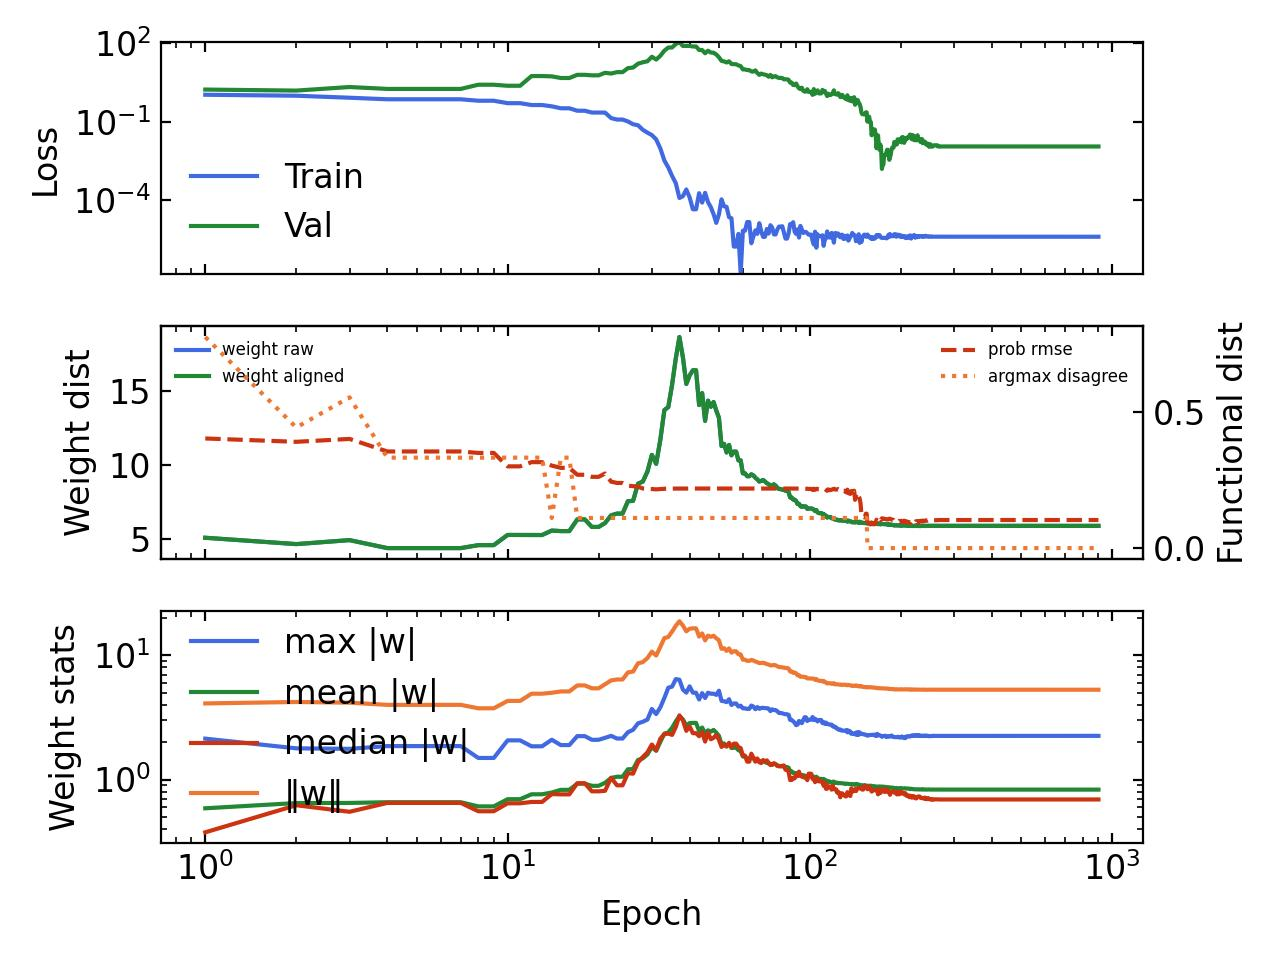
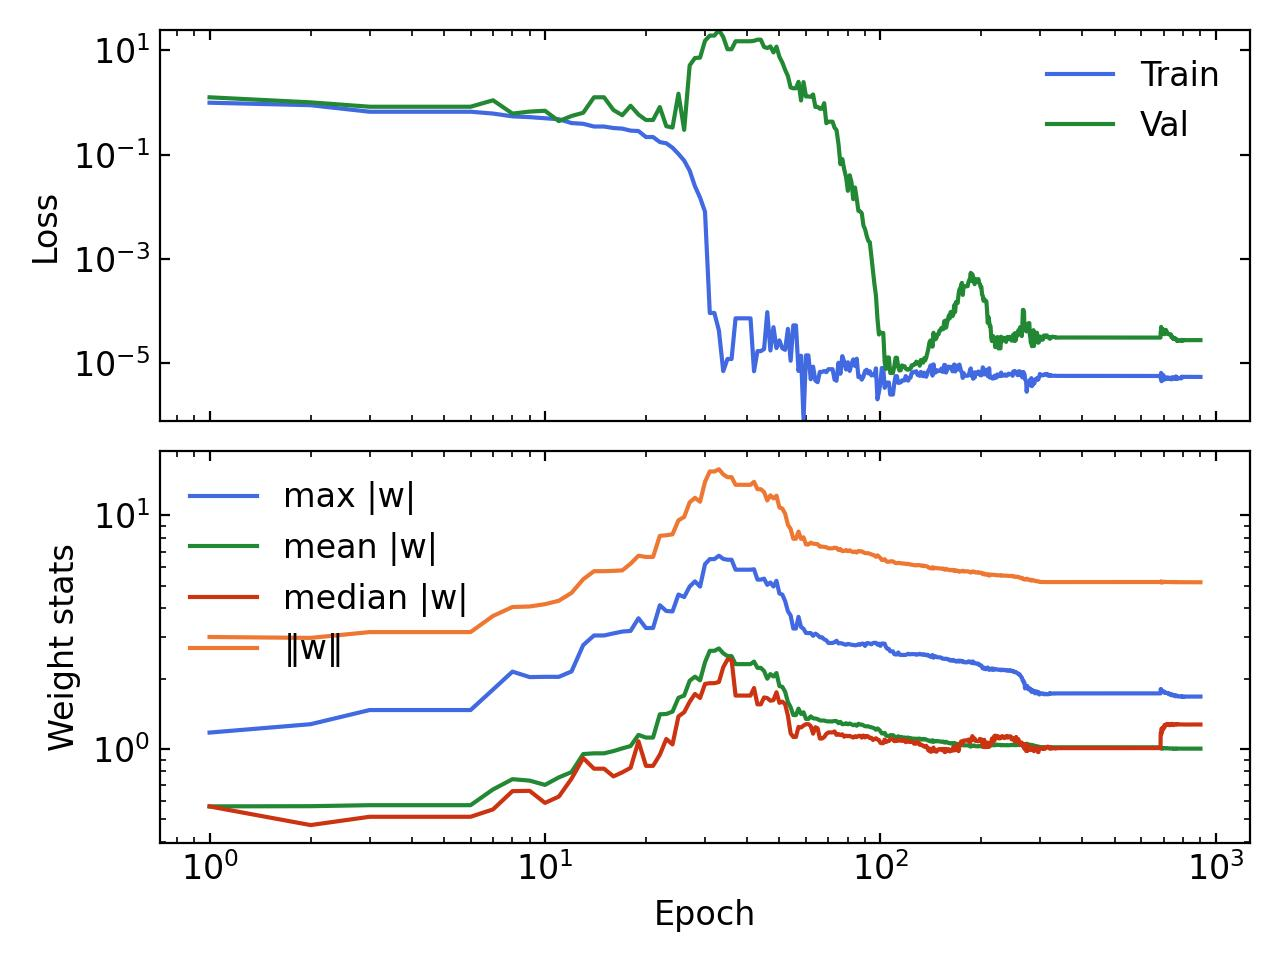
grokking window ELA tracking

diff --git a/plot.py b/plot.py
@@ -216,6 +216,153 @@ def plot_metrics(log_dir):
     print(f"Saved {savefile}\n")
 
 
+def _band_first(epochs, series, band):
+    """First generation where `series` enters the bottom `band` fraction of its
+    range, or None. Used to locate when a loss bottoms out."""
+    finite = np.isfinite(series)
+    if not finite.any():
+        return None
+    ep, v = epochs[finite], series[finite]
+    lo, hi = float(np.min(v)), float(np.max(v))
+    if hi - lo <= 0:
+        return None
+    hit = np.where(v <= lo + band * (hi - lo))[0]
+    return int(ep[hit[0]]) if hit.size else None
+
+
+def _grokking_span(m, band=0.1):
+    """(start, end) generations bracketing grokking, or (None, None).
+
+    Grokking shows up in the loss, not accuracy: train_loss drops early
+    (memorization) while val_loss stays high, then val_loss descends much later
+    (generalization). Accuracy is too coarse to see this on small val sets (e.g.
+    P=3 has only 4 val points). So:
+
+      start = train_loss bottoms out  (memorization complete)
+      end   = val_loss settles into the bottom `band` of its range and stays there
+              (generalization complete)
+
+    The span between them is the grokking gap. Returns (None, None) if val_loss
+    never settles low (no grokking) or the losses aren't logged."""
+    if m is None or "val_loss" not in m:
+        return None, None
+    epochs, vl = m["epoch"], m["val_loss"]
+    finite = np.isfinite(vl)
+    if not finite.any():
+        return None, None
+    ep, v = epochs[finite], vl[finite]
+    lo, hi = float(np.min(v)), float(np.max(v))
+    if hi - lo <= 0:
+        return None, None  # flat val_loss — nothing to mark
+    above = np.where(v > lo + band * (hi - lo))[0]
+    if not above.size:
+        return None, None  # always low — generalized from the start, no grokking
+    i = above[-1] + 1  # first generation after the last excursion above the band
+    if i >= len(ep):
+        return None, None  # ended high → never grokked
+    end = int(ep[i])
+
+    # start = memorization point (train_loss bottoms out); fall back to the
+    # val_loss peak — the onset of its descent — if train_loss is unavailable or
+    # bottoms after val has already generalized.
+    start = _band_first(epochs, m["train_loss"], band) if "train_loss" in m else None
+    if start is None or start >= end:
+        start = int(ep[int(np.argmax(v))])
+    return min(start, end), end
+
+
+def plot_ela_window(log_dir):
+    """Plot how each ELA feature evolves over generations.
+
+    Reads the side-channel `ela_window.jsonl` written when training with
+    `--ela-window`; one small panel per feature. The first panel shows train/val
+    loss as a grokking reference, and the grokking span (memorization → general-
+    ization) is shaded on every panel so feature dynamics can be compared against
+    when grokking happens. Silently skips runs without the side-channel file.
+    """
+    path = os.path.join(log_dir, "ela_window.jsonl")
+    if not os.path.exists(path):
+        return
+    with open(path) as f:
+        rows = [json.loads(line) for line in f if line.strip()]
+    if not rows:
+        return
+    print(f"Loading {path}...")
+
+    epochs = np.array([r["epoch"] for r in rows])
+    feats = sorted(set().union(*(r.keys() for r in rows)) - {"epoch"})
+    if not feats:
+        return
+
+    # Grokking reference from the per-generation metrics stream.
+    metrics = _get_metrics(log_dir)
+    gstart, gend = _grokking_span(metrics)
+
+    def mark_span(ax):
+        if gstart is not None and gend is not None:
+            ax.axvspan(gstart, gend, color="C3", alpha=0.12, lw=0)
+            ax.axvline(gstart, color="C3", ls="--", lw=0.7, alpha=0.7)
+            ax.axvline(gend, color="C3", ls="--", lw=0.7, alpha=0.7)
+
+    ncol = 4
+    npanel = len(feats) + 1  # +1 for the grokking reference panel
+    nrow = int(np.ceil(npanel / ncol))
+    fig, axes = plt.subplots(
+        nrow, ncol, figsize=(3.2 * ncol, 2.4 * nrow), dpi=150, squeeze=False
+    )
+    axes = axes.reshape(-1)
+
+    # Panel 0: grokking reference (train/val loss, log scale — grokking is the
+    # late descent of val_loss after train_loss has already bottomed out, which
+    # accuracy is too coarse to show on small val sets).
+    gax = axes[0]
+    if metrics is not None and "val_loss" in metrics and np.any(
+        np.isfinite(metrics["val_loss"])
+    ):
+        me = metrics["epoch"]
+        if "train_loss" in metrics:
+            gax.plot(me, metrics["train_loss"], lw=1, label="train")
+        gax.plot(me, metrics["val_loss"], lw=1, label="val")
+        gax.set_ylabel("Loss", fontsize=6)
+        gax.set_yscale("log")
+        gax.legend(fontsize=5, loc="upper right")
+        title = (
+            f"Grokking gens {gstart}–{gend}"
+            if gstart is not None
+            else "Grokking (none)"
+        )
+    else:
+        gax.text(0.5, 0.5, "no loss metrics", ha="center", va="center", fontsize=6)
+        title = "Grokking (n/a)"
+    gax.set_title(title, fontsize=6)
+    gax.set_xlabel("Generation", fontsize=6)
+    gax.set_xscale("log")  # grokking is read on a log generation axis
+    gax.tick_params(labelsize=5)
+    mark_span(gax)
+
+    for ax, feat in zip(axes[1:], feats):
+        y = np.array([r.get(feat, float("nan")) for r in rows], dtype=float)
+        finite = np.isfinite(y)
+        if finite.any():
+            ax.plot(epochs[finite], y[finite], lw=1)
+        mark_span(ax)
+        ax.set_title(feat, fontsize=6)
+        ax.set_xlabel("Generation", fontsize=6)
+        ax.set_xscale("log")  # match the grokking panel so the span aligns
+        ax.tick_params(labelsize=5)
+
+    for ax in axes[npanel:]:
+        ax.axis("off")
+
+    name = os.path.basename(log_dir)
+    fig.suptitle(f"ELA features over training  ({name})", fontsize=11)
+    fig.tight_layout(rect=(0, 0, 1, 0.97))
+    savefile = image_path(f"ela_window_{name}.jpg")
+    fig.savefig(savefile)
+    plt.close(fig)
+    print(f"Saved {savefile}\n")
+
+
 if __name__ == "__main__":
     logs = os.listdir("log")
     if not os.path.exists("log") or len(logs) == 0:
@@ -229,3 +376,4 @@ if __name__ == "__main__":
 
             animate_embedddings(log_dir)
         plot_metrics(log_dir)
+        plot_ela_window(log_dir)

diff --git a/algorithms/_common.py b/algorithms/_common.py
@@ -25,6 +25,35 @@ def get_trajectory():
     return X, y
 
 
+# Optional per-generation ELA over a moving window of recently evaluated points.
+# None = disabled; otherwise dict(n_last_points, seed, every).
+_ELA_WINDOW = None
+
+
+def enable_ela_window(n_last_points, seed=2, every=1):
+    """Compute ELA features every `every` generations over a moving window of
+    the last `n_last_points` evaluated points, tracking how each feature evolves
+    during the search. Implies trajectory recording (the window reads from it)."""
+    global _ELA_WINDOW
+    enable_trajectory()
+    _ELA_WINDOW = dict(n_last_points=int(n_last_points), seed=int(seed), every=int(every))
+
+
+def _ela_window_features():
+    """ELA features over the last `n_last_points` evaluated points, or {} if the
+    window is too small / the feature is disabled."""
+    if _ELA_WINDOW is None or not _TRAJECTORY:
+        return {}
+    window = _TRAJECTORY[-_ELA_WINDOW["n_last_points"] :]
+    if len(window) < 4:  # need a handful of points for any feature to be meaningful
+        return {}
+    X = np.array([t[0] for t in window])
+    y = np.array([t[1] for t in window])
+    from algorithms import ela  # local import avoids a circular import at load time
+
+    return ela.window_features(X, y, seed=_ELA_WINDOW["seed"])
+
+
 def get_params(model):
     return np.concatenate([p.detach().numpy().ravel() for p in model.parameters()])
 
@@ -107,6 +136,10 @@ def make_fitness(
                     **dist,
                     **weight_stats(model),
                 )
+                if _ELA_WINDOW is not None and gen % _ELA_WINDOW["every"] == 0:
+                    ela_feats = _ela_window_features()
+                    if ela_feats:
+                        logger.log_to("ela_window.jsonl", epoch=gen, **ela_feats)
 
         return loss
 

diff --git a/train.py b/train.py
@@ -88,6 +88,23 @@ def parse_args():
         "Requires a population-based --algo (cmaes / cpso / de / g3pcx).",
     )
     parser.add_argument(
+        "--ela-window",
+        type=int,
+        default=None,
+        metavar="N",
+        help="During training, compute ELA features every generation over a "
+        "moving window of the last N evaluated points, logging how each feature "
+        "evolves. Requires --log and a population-based --algo (cmaes / cpso / "
+        "de / g3pcx). Plot with plot.py.",
+    )
+    parser.add_argument(
+        "--ela-window-every",
+        type=int,
+        default=1,
+        metavar="K",
+        help="Compute the moving-window ELA every K generations (default: 1).",
+    )
+    parser.add_argument(
         "--track-optimum",
         type=str,
         default=None,
@@ -365,6 +382,21 @@ if __name__ == "__main__":
 
     if args.ela_trajectory:
         common_alg.enable_trajectory()
+
+    if args.ela_window:
+        if logger is None:
+            print(
+                "\n--ela-window needs --log to record the feature series; "
+                "enabling logging."
+            )
+            logger = Logger(run_name)
+        common_alg.enable_ela_window(
+            args.ela_window, seed=args.seed, every=args.ela_window_every
+        )
+        print(
+            f"Tracking ELA features every {args.ela_window_every} generation(s) "
+            f"over a moving window of {args.ela_window} points."
+        )
 
     print("Train Loss, Acc | Val Loss, Acc")
 

diff --git a/log.py b/log.py
@@ -5,11 +5,12 @@ import os
 
 class Logger:
     def __init__(self, name):
-        root = os.path.join("log", name)
-        os.makedirs(root, exist_ok=True)
+        self.root = os.path.join("log", name)
+        os.makedirs(self.root, exist_ok=True)
 
-        self.metrics_file = open(os.path.join(root, "metrics.jsonl"), "w")
-        self.model_file = os.path.join(root, "model.pt")
+        self.metrics_file = open(os.path.join(self.root, "metrics.jsonl"), "w")
+        self.model_file = os.path.join(self.root, "model.pt")
+        self._extra_files = {}
 
     def log(self, model=None, **metrics):
         serializable = {
@@ -20,3 +21,15 @@ class Logger:
 
         if model is not None:
             torch.save(model.state_dict(), self.model_file)
+
+    def log_to(self, filename, **record):
+        """Append a record to a side-channel JSONL (e.g. per-generation ELA
+        features), kept separate from the main metrics stream."""
+        f = self._extra_files.get(filename)
+        if f is None:
+            f = self._extra_files[filename] = open(os.path.join(self.root, filename), "w")
+        serializable = {
+            k: v.item() if hasattr(v, "item") else v for k, v in record.items()
+        }
+        f.write(json.dumps(serializable) + "\n")
+        f.flush()

diff --git a/algorithms/ela.py b/algorithms/ela.py
@@ -218,6 +218,34 @@ def _all_features(X, y, seed):
     return features
 
 
+def window_features(X, y, seed=2):
+    """ELA features over a small *moving window* of evaluated points.
+
+    Unlike `_all_features`, this is robust to degenerate windows (too few or
+    near-duplicate points, constant objective values): a feature group that
+    cannot be computed contributes NaNs instead of raising, so it can be called
+    safely once per generation during an optimization run.
+    """
+    X = np.asarray(X, dtype=float)
+    y = np.asarray(y, dtype=float)
+    dists = pdist(X)
+    D = squareform(dists)
+    groups = (
+        lambda: _ela_meta(X, y),
+        lambda: _ela_distr(y),
+        lambda: _dispersion(X, y, dists),
+        lambda: _nbc(X, y, D),
+        lambda: _information_content(X, y, seed),
+    )
+    features = {}
+    for group in groups:
+        try:
+            features.update(group())
+        except Exception:
+            continue
+    return features
+
+
 def _save(features, run_name, prefix, meta):
     print(f"\n{prefix} features:")
     for k, v in features.items():

diff --git a/image_paths.py b/image_paths.py
@@ -7,8 +7,8 @@ applicable, by the modulus P of the run:
     images/sweeps/<filename>               cross-P aggregate plots (no single P)
 
 Categories are inferred from the filename prefix (metrics_, lon_/lon3d_, ela_,
-ela_traj_, emb_). P is read from the `_P<n>_` token; files predating P-keying
-are assumed to be P=3 (the original default).
+ela_traj_, ela_window_, emb_). P is read from the `_P<n>_` token; files predating
+P-keying are assumed to be P=3 (the original default).
 """
 
 import os
@@ -27,6 +27,8 @@ def categorize(filename):
         category = "metrics"
     elif base.startswith(("lon_", "lon3d_")):
         category = "lon"
+    elif base.startswith("ela_window_"):
+        category = "ela_window"
     elif base.startswith("ela_traj_"):
         category = "ela_traj"
     elif base.startswith("ela_"):

diff --git a/algorithms/lon.py b/algorithms/lon.py
@@ -58,6 +58,7 @@ def run(
         n_iter_no_change=n_iter_no_change,
         step_size=step_size,
         seed=seed,
+        n_jobs=-1,  # basin-hopping runs are independent — always use all cores
     )
 
     print(
